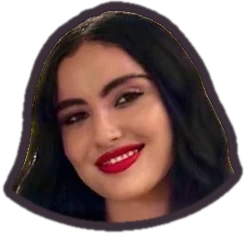
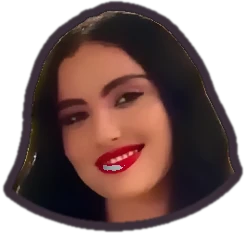
Make couple characters stickmen with softened photo heads and larger opening
Claude-Session: https://claude.ai/code/session_01PAEqFaGGatY23GmokTMZKB

diff --git a/anniversary/style.css b/anniversary/style.css
@@ -47,8 +47,10 @@ section { max-width: 980px; margin: 0 auto; padding: 5rem 16px 3rem; position: r
   padding: 16px; text-align: center; position: relative; z-index: 1; gap: .5rem; }
 #opening > h1, #opening > .hint, #opening > .op-row { animation: fadeUp .6s var(--ease-out) both; }
 #opening > .hint { animation-delay: .08s; } #opening > .op-row { animation-delay: .16s; }
-.op-row { display: flex; align-items: flex-end; justify-content: center; gap: clamp(6px, 3vw, 28px); margin-top: clamp(70px, 16vw, 120px); }
-.op-char { width: clamp(56px, 17vw, 120px); }
+.op-row { display: grid; grid-template-columns: 1fr 1fr; justify-items: center; align-items: end; width: min(100%, 520px); column-gap: 4vw; margin-top: clamp(24px, 8vw, 60px); }
+.op-row .envelope { grid-column: 1 / -1; grid-row: 1; }
+#op-a { grid-column: 1; grid-row: 2; justify-self: end; } #op-b { grid-column: 2; grid-row: 2; justify-self: start; }
+.op-char { width: clamp(110px, 34vw, 190px); margin-top: calc(-1 * clamp(18px, 6vw, 40px)); position: relative; z-index: 2; }
 .bob { animation: bob 2.4s ease-in-out infinite; }
 .bob.late { animation-delay: -1.2s; }
 @keyframes bob { 50% { transform: translateY(-8px) rotate(-2deg); } }
@@ -59,7 +61,7 @@ section { max-width: 980px; margin: 0 auto; padding: 5rem 16px 3rem; position: r
 .eye { transform-box: fill-box; transform-origin: center; animation: blink 4s infinite; }
 @keyframes blink { 0%, 94%, 100% { transform: scaleY(1); } 97% { transform: scaleY(.1); } }
 
-.envelope { --w: min(300px, 52vw); width: var(--w); height: calc(var(--w) * .66); position: relative; border: 0; padding: 0;
+.envelope { --w: min(300px, 50vw); width: var(--w); height: calc(var(--w) * .66); position: relative; border: 0; padding: 0;
   background: none; cursor: pointer; perspective: 800px; font: inherit; color: inherit; animation: wiggle 2.5s ease-in-out infinite; }
 .envelope.open { animation: none; cursor: default; }
 .envelope > span { transition: scale .16s var(--ease-out); }
@@ -97,9 +99,9 @@ section { max-width: 980px; margin: 0 auto; padding: 5rem 16px 3rem; position: r
 .nav a:active { background: var(--pink); }
 
 /* character stage */
-.stage { position: relative; height: 252px; max-width: 560px; margin: 0 auto; }
+.stage { position: relative; height: 282px; max-width: 560px; margin: 0 auto; }
 .stage .ground { position: absolute; left: 4%; right: 4%; bottom: 14px; border-bottom: 3px dashed var(--ink); opacity: .35; }
-.stage { --cw: 124px; }
+.stage { --cw: 150px; }
 .char { position: absolute; bottom: 16px; width: var(--cw); transition: left 2.2s ease-in-out, transform .4s var(--ease-out); z-index: 1; }
 .stage[data-state="apart"] .char.a, .stage[data-state="back"] .char.a { left: 2%; }
 .stage[data-state="apart"] .char.b, .stage[data-state="back"] .char.b { left: calc(98% - var(--cw)); }
@@ -110,15 +112,18 @@ section { max-width: 980px; margin: 0 auto; padding: 5rem 16px 3rem; position: r
 .stage[data-state="kiss"] .char.a { left: calc(50% - var(--cw) * .923); transform: rotate(14deg); }
 .stage[data-state="kiss"] .char.b { left: calc(50% - var(--cw) * .077); transform: rotate(-14deg); }
 .stage[data-state="walking"] .char svg, .stage[data-state="back"] .char svg { animation: bob .45s ease-in-out infinite; }
-.leg { transform-box: fill-box; transform-origin: 50% 0; }
+.leg { transform-box: fill-box; }
+.leg.l { transform-origin: 100% 0; } .leg.r { transform-origin: 0 0; }
+.doodle .shadow { fill: var(--ink); stroke: none; opacity: .13; }
+.doodle .headimg { filter: drop-shadow(0 1px 0 #fff8); }
 .stage[data-state="walking"] .leg.l, .stage[data-state="back"] .leg.l { animation: step .45s ease-in-out infinite; }
 .stage[data-state="walking"] .leg.r, .stage[data-state="back"] .leg.r { animation: step .45s ease-in-out infinite reverse; }
 @keyframes step { 0%, 100% { transform: rotate(-22deg); } 50% { transform: rotate(22deg); } }
 .stage .arm { transition: transform .4s var(--spring); }
-.stage[data-state="hug"] .char.a .arm.r { transform: translateY(28px) rotate(-75deg) scale(1.5); }
-.stage[data-state="hug"] .char.b .arm.l { transform: translateY(28px) rotate(75deg) scale(1.5); }
+.stage[data-state="hug"] .char.a .arm.r { transform: rotate(-62deg) scale(1.35); }
+.stage[data-state="hug"] .char.b .arm.l { transform: rotate(62deg) scale(1.35); }
 .stage[data-state="hug"] .eye, .stage[data-state="kiss"] .eye { animation: none; transform: scaleY(.15); }
-.stage-heart { position: absolute; left: 50%; bottom: 172px; translate: -50% 0; font-size: 2.4rem; color: var(--rose); opacity: 0; pointer-events: none; }
+.stage-heart { position: absolute; left: 50%; bottom: 200px; translate: -50% 0; font-size: 2.4rem; color: var(--rose); opacity: 0; pointer-events: none; }
 .stage[data-state="kiss"] .stage-heart, .stage[data-state="hug"] .stage-heart { animation: heartUp 1.6s ease-out infinite; }
 @keyframes heartUp { 0% { opacity: 0; transform: translateY(20px) scale(.8); } 30% { opacity: 1; } 100% { opacity: 0; transform: translateY(-50px) scale(1.3); } }
 .bubble { position: absolute; bottom: 100%; left: 50%; translate: -50% 0; background: #fff; border: 3px solid var(--ink); border-radius: 18px;
@@ -331,10 +336,10 @@ main > section:not(#start)::before { content: ""; position: absolute; top: 0; le
 .breather blockquote { margin: 0 auto; max-width: 820px; font: 700 clamp(2.3rem, 8vw, 4rem)/1.05 var(--hand); text-wrap: balance; }
 .breather blockquote::before { content: "\201C"; display: block; height: .45em; font-size: 2.2em; line-height: 1; color: var(--rose); }
 .breather .polaroid { max-width: 340px; margin: 2.2rem auto 0; --tilt: -2deg; }
-.walk-strip { position: relative; height: 112px; margin: 1.5rem -16px 0; overflow: hidden; }
+.walk-strip { position: relative; height: 150px; margin: 1.5rem -16px 0; overflow: hidden; }
 .walkers { position: absolute; bottom: 6px; left: 0; display: flex; align-items: flex-end; gap: 2px; animation: walkAcross 18s linear infinite; animation-play-state: paused; will-change: transform; }
 .walk-strip.go .walkers { animation-play-state: running; }
-.walkers span { width: 62px; }
+.walkers span { width: 92px; }
 .walkers i { align-self: flex-start; margin-top: 8px; font-style: normal; color: var(--rose); animation: bob 1.2s ease-in-out infinite; }
 .walkers svg { animation: bob .45s ease-in-out infinite; }
 .walkers .leg.l { animation: step .45s ease-in-out infinite; } .walkers .leg.r { animation: step .45s ease-in-out infinite reverse; }

diff --git a/anniversary/script.js b/anniversary/script.js
@@ -27,19 +27,37 @@
       c.beard ? `<path fill="${c.hairColor || "#3a2e39"}" d="M24 74 C28 114 92 114 96 74 L88 74 C86 98 34 98 32 74Z"/>` : "",
       c.glasses ? `<g class="nofill"><circle cx="46" cy="62" r="10"/><circle cx="74" cy="62" r="10"/><path d="M56 62 h8 M36 60 l-9 -3 M84 60 l9 -3"/></g>` : "",
     ].join("");
+    if (c.face) {
+      // a stickman: the photo head on a drawn body, with a small outfit in the character's colour
+      const dress = c.outfit === "dress", col = c.color;
+      const body = dress
+        ? `<path fill="${col}" d="M50 66 L70 66 L87 117 L33 117Z" style="stroke-linejoin:round"/>`
+        : `<path fill="${col}" d="M47 66 L73 66 L72 101 L48 101Z" style="stroke-linejoin:round"/>`;
+      const legs = dress
+        ? `<g class="leg l"><path class="nofill" d="M51 117 L46 139 h-8"/></g><g class="leg r"><path class="nofill" d="M69 117 L74 139 h8"/></g>`
+        : `<g class="leg l"><path class="nofill" d="M54 101 L48 139 h-8"/></g><g class="leg r"><path class="nofill" d="M66 101 L72 139 h8"/></g>`;
+      const sx = dress ? 52 : 48;
+      return `<svg class="doodle stick" viewBox="0 -8 120 156" aria-hidden="true"><g transform="translate(60 140) scale(${h}) translate(-60 -140)">
+        <ellipse class="shadow" cx="60" cy="141" rx="32" ry="4"/>
+        <g style="stroke-width:3.6">${legs}${body}
+        <path class="arm l nofill" d="M${sx} 71 q-12 6 -16 27"/>
+        <path class="arm r nofill" d="M${120 - sx} 71 q12 6 16 27"/>
+        <path class="nofill" d="M60 60 V68"/></g>
+        <image class="headimg" href="${esc(c.face)}" x="24" y="-1" width="72" height="69" preserveAspectRatio="xMidYMax meet"/>
+      </g></svg>`;
+    }
     return `<svg class="doodle" viewBox="0 -8 120 156" aria-hidden="true"><g transform="translate(60 138) scale(${h}) translate(-60 -138)">
       <g class="leg l"><path class="nofill" d="M48 118 v20 h-8"/></g>
       <g class="leg r"><path class="nofill" d="M72 118 v20 h8"/></g>
       ${back}
       <path class="arm l nofill" d="M24 78 q-14 8 -12 22"/>
       <path class="arm r nofill" d="M96 78 q14 8 12 22"/>
-      ${c.face ? `<path fill="${c.color}" d="M28 82 C22 102 34 124 60 124 C86 124 98 102 92 82 C82 90 38 90 28 82Z"/>`
-        : `<path fill="${c.color}" d="M60 18 C92 18 102 50 100 82 C98 112 84 124 60 124 C36 124 22 112 20 82 C18 50 28 18 60 18Z"/>`}
-      ${c.face ? `<image href="${esc(c.face)}" x="14" y="4" width="92" height="88" preserveAspectRatio="xMidYMax meet"/>${c.bow ? extras : ""}` : `${front}
+      <path fill="${c.color}" d="M60 18 C92 18 102 50 100 82 C98 112 84 124 60 124 C36 124 22 112 20 82 C18 50 28 18 60 18Z"/>
+      ${front}
       <circle class="eye ink" cx="46" cy="62" r="4"/><circle class="eye ink" cx="74" cy="62" r="4"/>
       <ellipse class="blush" cx="35" cy="76" rx="7" ry="4.5"/><ellipse class="blush" cx="85" cy="76" rx="7" ry="4.5"/>
       <path class="nofill" d="M52 77 q8 8 16 0"/>
-      ${extras}`}
+      ${extras}
     </g></svg>`;
   }
   const ICONS = {

diff --git a/anniversary/content.js b/anniversary/content.js
@@ -15,7 +15,8 @@ window.CONTENT = {
   // The two doodle characters. "a" is you, "b" is him. Make them look like the two of you:
   //   face:      a head cut-out with a see-through background, for example "photos/face-her.webp", shown instead of the drawn face.
   //              Remove the face line to go back to the drawn face and the hair, glasses and beard options below.
-  //   color:     body colour
+  //   outfit:    "dress" or "tee", for the stickman body that goes under a face photo
+  //   color:     body colour (the colour of the outfit)
   //   hair:      "long", "short", "curly", "bun", "tuft" or "none"
   //   hairColor: any colour, for example "#6b4a3a" brown, "#2b2b2b" black, "#e8c36a" blonde, "#b5532a" ginger
   //   glasses:   true or false
@@ -24,8 +25,8 @@ window.CONTENT = {
   //   sprout:    true or false (a little heart growing from the head)
   //   height:    1 is normal, 1.1 is a bit taller, 0.92 a bit shorter
   characters: {
-    a: { face: "photos/face-her.webp", color: "#ffc2d1", hair: "long", hairColor: "#1d1a22", glasses: false, beard: false, bow: false, sprout: false, height: 1 },
-    b: { face: "photos/face-him.webp", color: "#bde0fe", hair: "short", hairColor: "#6b4a3a", glasses: true, beard: true, bow: false, sprout: false, height: 1.12 },
+    a: { face: "photos/face-her.webp", outfit: "dress", color: "#ffc2d1", hair: "long", hairColor: "#1d1a22", glasses: false, beard: false, bow: false, sprout: false, height: 1 },
+    b: { face: "photos/face-him.webp", outfit: "tee", color: "#bde0fe", hair: "short", hairColor: "#6b4a3a", glasses: true, beard: true, bow: false, sprout: false, height: 1.12 },
   },
 
   // Background song. It starts when the envelope is opened and pauses while a video plays.
